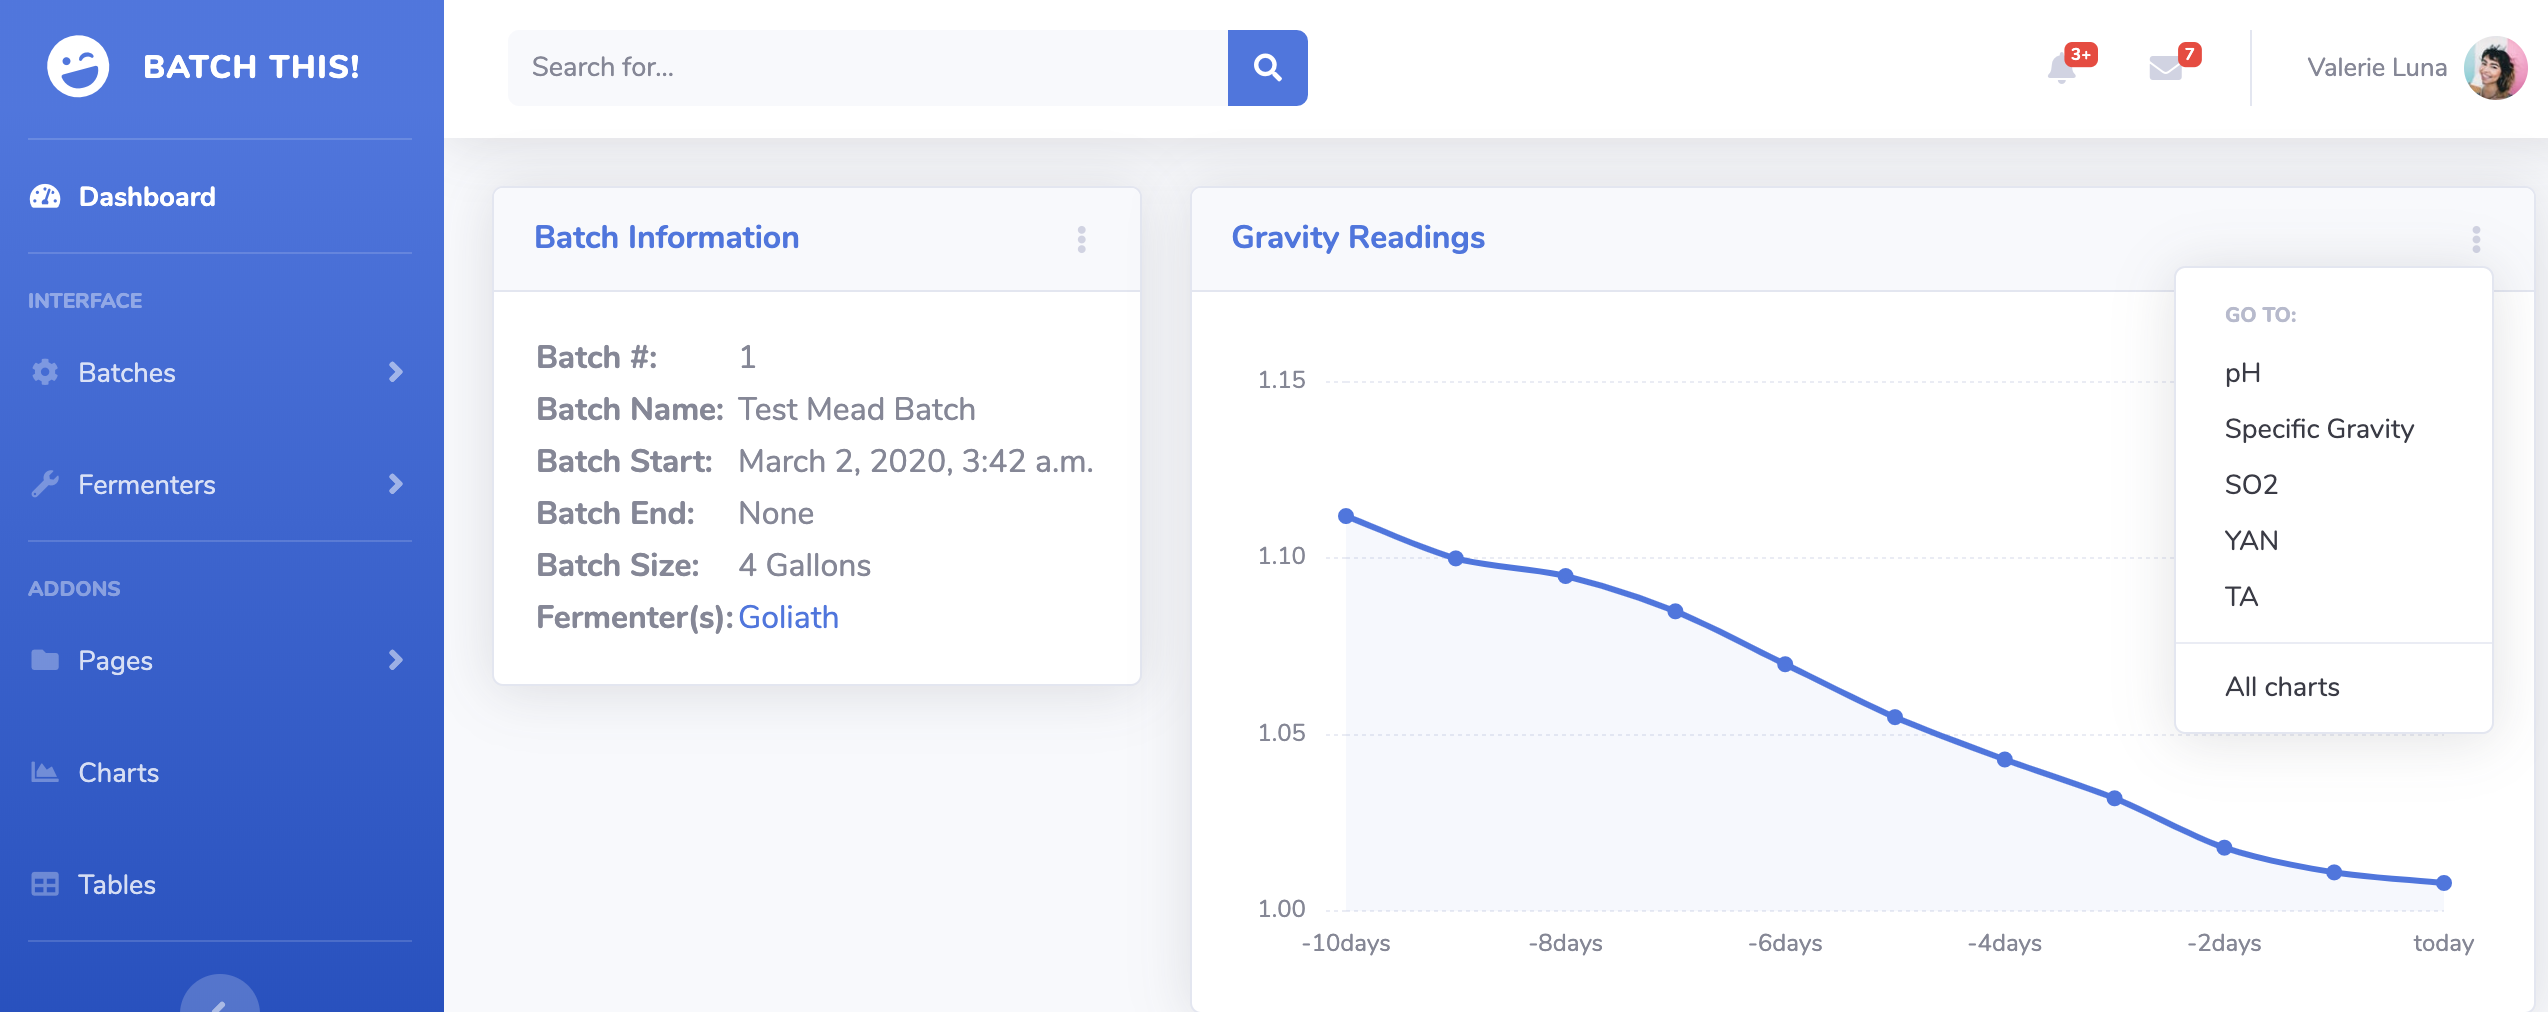
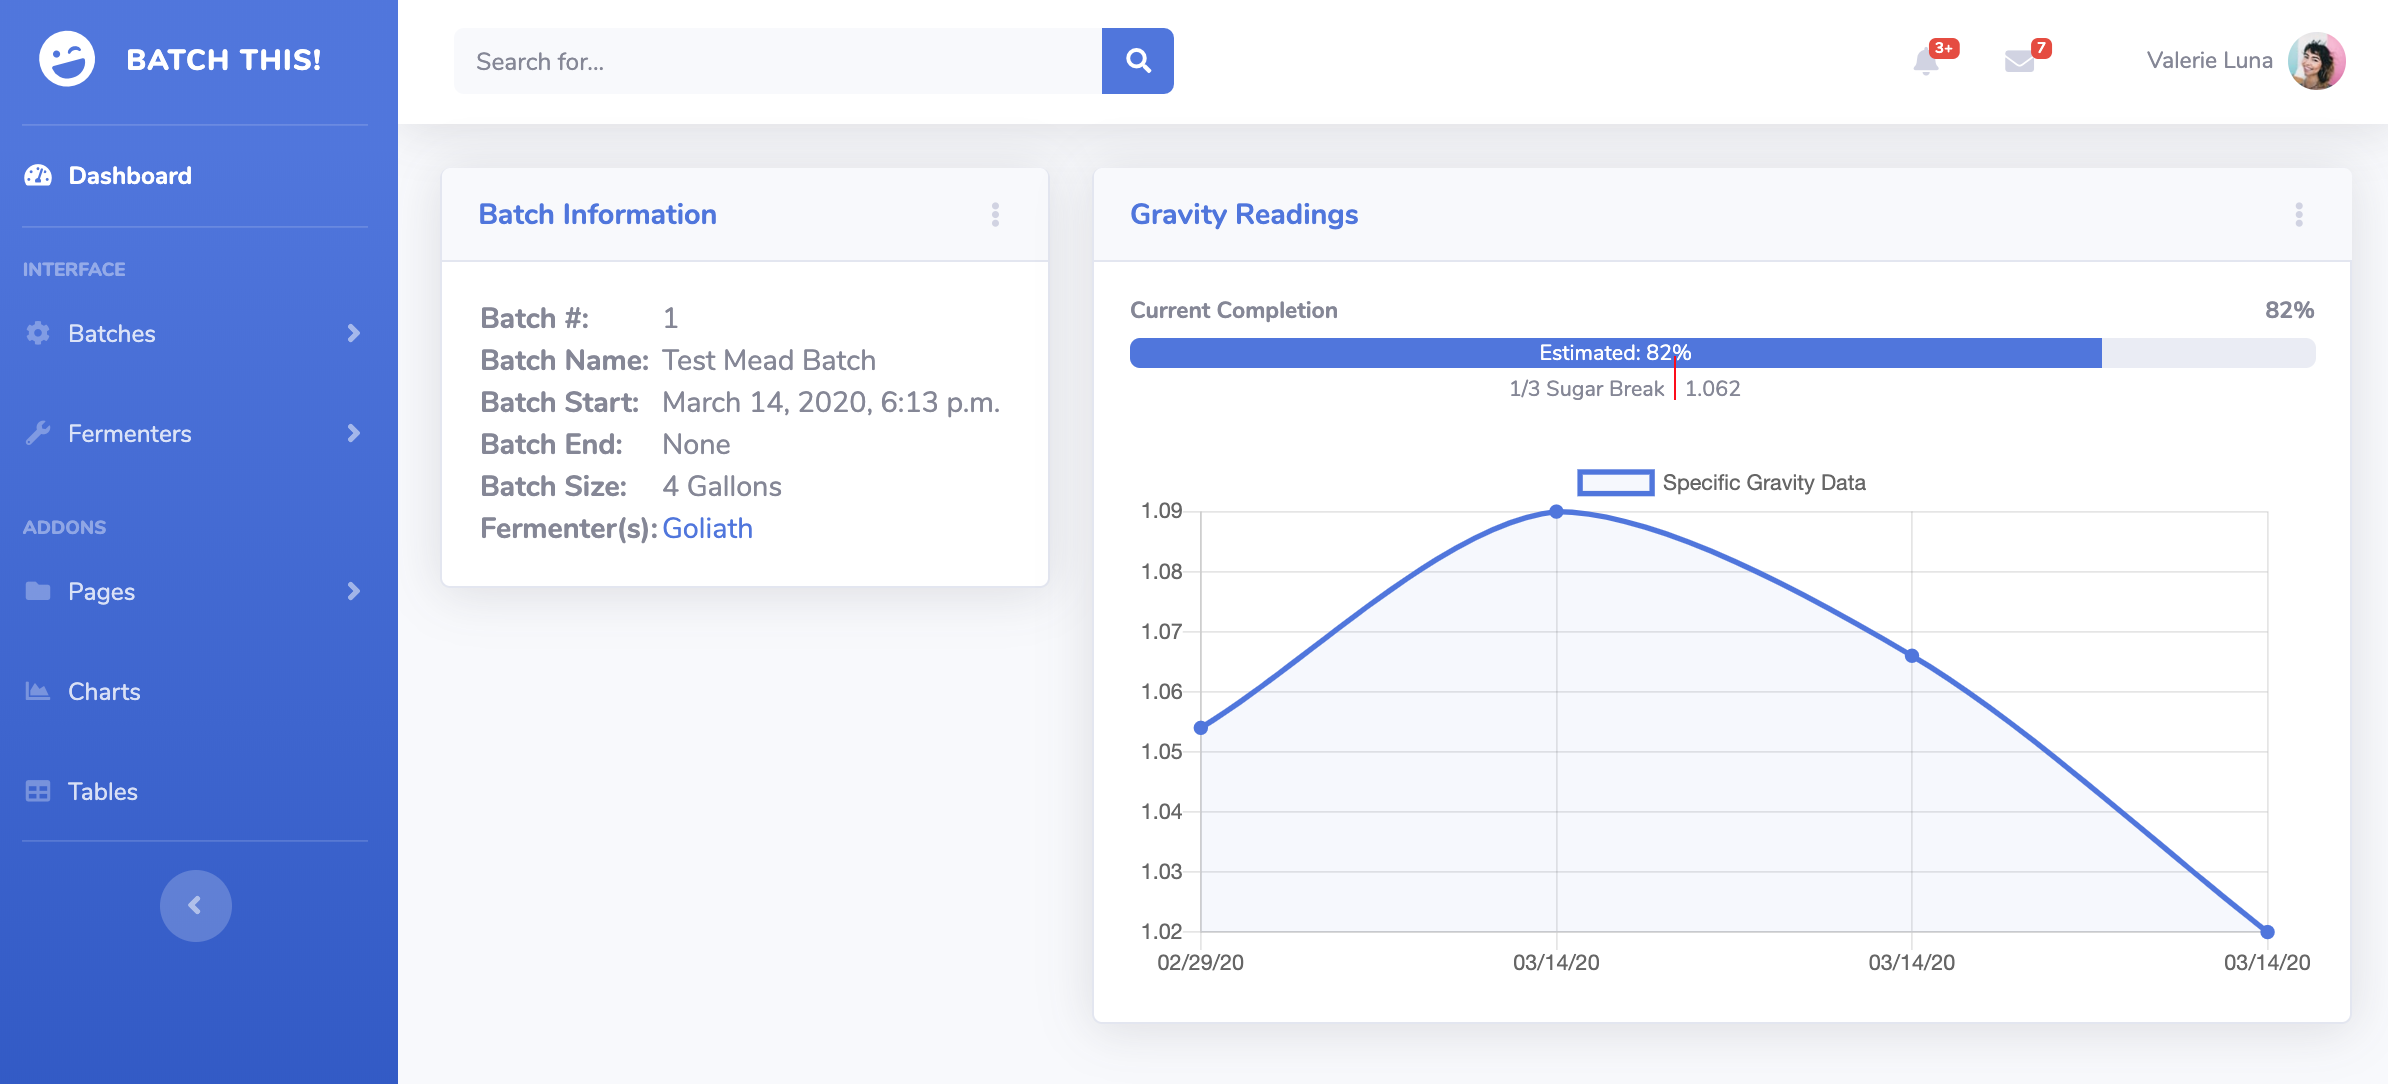
Added chart for batch detail, and made charts reponsive to page sizing

diff --git a/templates/batch.html b/templates/batch.html
@@ -1,6 +1,7 @@
 {% extends 'base.html' %}
 {% block content %}
 {% include 'topbar.html' %}
+<script src="/static/batchthis/vendor/chart.js/Chart.min.js"></script>
 <div class="container-fluid">
     <div class="row">
         <!-- Batch Actions and Meta Card -->
@@ -98,14 +99,47 @@
                         <div class="bar-step" style="left: {{thirdSugarBreakPercent}}%">
                             <div class="label-txt">1/3 Sugar Break</div>
                             <div class="label-percent">{{thirdSugarBreak}}</div>
-                        <div class="label-line"></div>
+                            <div class="label-line" style="background: red; height:24px; margin-top:-10px;"></div>
                         </div>
-	                    <div class="progress-bar progress-bar-success" style="width: {{ percentComplete }}%;">{{ percentComplete }}</div>
-   </div>
-</div>
-                  <div class="chart-area">
-                    <canvas id="myAreaChart"></canvas>
+	                    <div class="progress-bar progress-bar-success" style="width: {{ percentComplete }}%;">Estimated: {{ percentComplete }}%</div>
+                    </div>
+                    <div class="chart-area pt-4">
+                    <canvas id="{{ gravityChart.shortid }}Chart"></canvas>
+                      <script>
+            var ctxLoc = '{{ gravityChart.shortid }}Chart';
+            var chartDataLoc = '{{ gravityChart.shortid }}_data';
+            //var chartData = document.getElementById(chartDataLoc).textContent;
+            var label_val = {{ gravityChart.dates|safe }};
+            var data_val = {{ gravityChart.values }};
+
+            var ctx = document.getElementById(ctxLoc).getContext('2d')
+            var chart = new Chart(ctx, {
+                type: "line",
+                data: {
+                    labels: label_val,
+                    datasets: [{
+                        label: "Specific Gravity Data",
+                        data: data_val,
+                        lineTension: 0.3,
+                      backgroundColor: "rgba(78, 115, 223, 0.05)",
+                      borderColor: "rgba(78, 115, 223, 1)",
+                      pointRadius: 3,
+                      pointBackgroundColor: "rgba(78, 115, 223, 1)",
+                      pointBorderColor: "rgba(78, 115, 223, 1)",
+                      pointHoverRadius: 3,
+                      pointHoverBackgroundColor: "rgba(78, 115, 223, 1)",
+                      pointHoverBorderColor: "rgba(78, 115, 223, 1)",
+                      pointHitRadius: 10,
+                      pointBorderWidth: 2,
+                        }]
+                },
+                options: {responsive:true,
+                maintainAspectRatio: false
+                }
+            });
+        </script>
                   </div>
+                </div>
                 </div>
         </div>
         </div>

diff --git a/templates/batchGraphs.html b/templates/batchGraphs.html
@@ -26,13 +26,13 @@
                 </div>
             </div>
         </div>
+        <!-- TODO Add timestamp to nodes, but keep date for labels -->
         <script>
             var ctxLoc = '{{ value.shortid }}Chart';
             var chartDataLoc = '{{ value.shortid }}_data';
             var chartData = document.getElementById(chartDataLoc).textContent;
             var label_val = {{ value.dates|safe }};
             var data_val = {{ value.values }};
-            console.log(chartDataLoc + "\n" + chartData.dates)
 
             var ctx = document.getElementById(ctxLoc).getContext('2d')
             var chart = new Chart(ctx, {
@@ -40,7 +40,7 @@
                 data: {
                     labels: label_val,
                     datasets: [{
-                        label: "{{ test }} Data",
+                        label: "{{test}} Data",
                         data: data_val,
                         lineTension: 0.3,
                       backgroundColor: "rgba(78, 115, 223, 0.05)",
@@ -55,6 +55,9 @@
                       pointBorderWidth: 2,
                         }]
                 },
+                options: {responsive:true,
+                maintainAspectRatio: false
+                }
             });
         </script>
         {% endfor %}

diff --git a/templates/base.html b/templates/base.html
@@ -21,7 +21,7 @@
   <style>
     .bar-step {
     position:absolute;
-	margin-top:-20px;
+	margin-top:20px;
 	z-index:1;
     font-size:12px;
 }

diff --git a/views.py b/views.py
@@ -33,9 +33,21 @@ def batch(request, pk):
     thirdSugarBreak = round(batch.startingGravity-((batch.startingGravity-batch.estimatedEndGravity)/3),3)
     thirdSugarBreakPercent = round((batch.startingGravity-thirdSugarBreak)/(batch.startingGravity-batch.estimatedEndGravity)*100)
 
+    gravityChart = {}
+    for test in gravity_tests:
+        if not "dates" in gravityChart.keys():
+            gravityChart["shortid"] = "specific-gravity"
+            gravityChart["dates"] = []
+            gravityChart["values"] = []
+        strfmt = "%m/%d/%y"
+        gravityChart["dates"].append(test.datetime.strftime(strfmt))
+        gravityChart["values"].append(test.value)
+
     context = {
         "batch": batch,
         "percentComplete": percent_complete,
+        "gravityChart": gravityChart,
+        "gravityTests": gravity_tests,
         "testTypes": testTypes,
         "fermenters": fermenters,
         "thirdSugarBreak": thirdSugarBreak,
